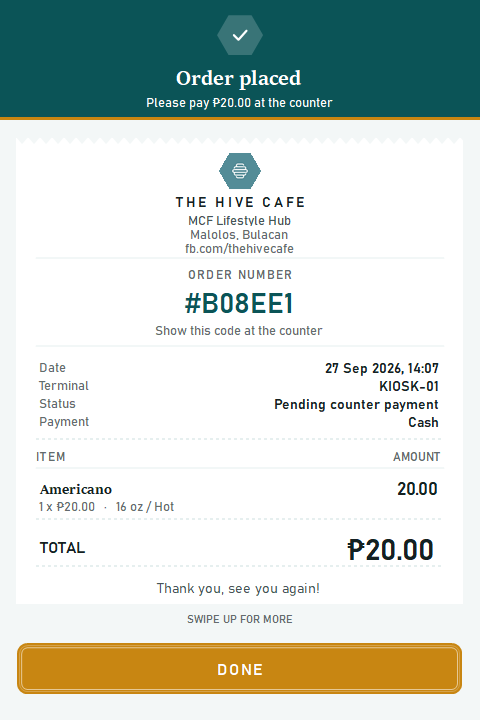
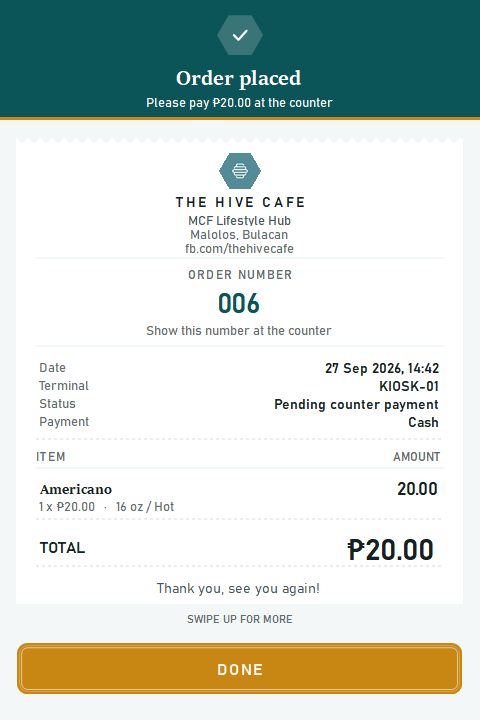
Number orders 001, 002... through the day
The receipt showed a hex code like #84C0E8 for the guest to read out at
the counter, where 0/O and 8/B sound alike. Orders now get a daily
number instead, shown as 042 on the receipt, the printed slip and staff
history, and the receipt says "Show this number at the counter".

The number is worked out from the day's saved orders rather than kept
in a separate counter, so it survives a restart and cannot drift from
the records; a damaged record from today still counts, so no number is
handed out twice. The full record id is unchanged, and orders saved
before this keep their old code.

Changed region(s): [[0.3125, 0.3972, 0.6875, 0.4889], [0.875, 0.4889, 0.9375, 0.5194]]

diff --git a/tests/SmokeTests.cs b/tests/SmokeTests.cs
@@ -131,8 +131,8 @@ class SmokeTests
 
             LocalStore.SetSoldOut("Americano", false);
             var saved = LocalStore.Submit("Cash");
-            Check(saved.DisplayNumber.Length == 7 && saved.Id.EndsWith(saved.DisplayNumber.Substring(1), StringComparison.OrdinalIgnoreCase),
-                "guest order code is short and maps to the saved record");
+            Check(saved.Number == 1 && saved.DisplayNumber == "001" && File.Exists(Path.Combine(LocalStore.Root, "Orders", saved.Id + ".xml")),
+                "the day's first order is number 001, saved under its full record id");
             OrderStorage.Orders[0].Quantity = 1;
             Check(saved.Total == 120 && saved.Lines[1].Sweetness == "50%", "saved snapshot retains sweetness independently of cart");
             int unreadable; var history = LocalStore.History(out unreadable);
@@ -140,6 +140,18 @@ class SmokeTests
             File.WriteAllText(Path.Combine(LocalStore.Root, "Orders", "broken.xml"), "broken");
             Check(LocalStore.History(out unreadable).Count == 1 && unreadable == 1, "damaged record does not hide valid history");
             var demo = LocalStore.Submit("Card"); Check(demo.Status == "Demo - no payment taken", "card demo never marked paid");
+            Check(demo.DisplayNumber == "002", "order numbers count up through the day");
+            string ordersDir = Path.Combine(LocalStore.Root, "Orders");
+            var yesterday = new SavedOrder { Id = DateTime.Now.AddDays(-1).ToString("yyyyMMdd") + "-235900-abc123", Number = 41,
+                Created = DateTime.Now.AddDays(-1), Method = "Cash", Status = "Pending counter payment", Lines = new System.Collections.Generic.List<Order>() };
+            LocalStore.Write(Path.Combine(ordersDir, yesterday.Id + ".xml"), yesterday);
+            File.WriteAllText(Path.Combine(ordersDir, DateTime.Now.ToString("yyyyMMdd") + "-000000-broken.xml"), "broken");
+            var third = LocalStore.Submit("Card");
+            Check(third.Number == 4, "yesterday's orders don't count, and a damaged record from today keeps its number (got " + third.Number + ")");
+            Check(LocalStore.History(out unreadable).Any(o => o.Id == third.Id && o.DisplayNumber == "004"),
+                "the number is saved with the order, so history reads it back after a restart");
+            Check(new SavedOrder { Id = "20250101-120000-84c0e8" }.DisplayNumber == "#84C0E8",
+                "orders saved before daily numbers keep their old code");
             string root = LocalStore.Root;
             string blocked = Path.Combine(root, "blocked"); File.WriteAllText(blocked, "file"); LocalStore.Root = blocked;
             Fails(() => LocalStore.Submit("Cash"), "storage failure reported");
@@ -194,7 +206,7 @@ class SmokeTests
                 Check(!cue.Visible, "scroll cue clears at the end of the receipt");
             }
             Shot((Form)receiptCtor.Invoke(new object[] { filipinoOrder }), "receipt-fil", args[0]);
-            Check(Directory.GetFiles(LocalStore.ReceiptFolder, "*.txt").Any(file => File.ReadAllText(file).Contains("ORDER BLG. " + filipinoOrder.DisplayNumber) && File.ReadAllText(file).Contains("Ipakita ang code sa counter")), "Filipino receipt copy shows the short code and counter instruction");
+            Check(Directory.GetFiles(LocalStore.ReceiptFolder, "*.txt").Any(file => File.ReadAllText(file).Contains("ORDER BLG. " + filipinoOrder.DisplayNumber) && File.ReadAllText(file).Contains("Ipakita ang numerong ito sa counter")), "Filipino receipt copy shows the order number and counter instruction");
 
             // the printed slip is 40 columns; Filipino customizations are longer
             // than the English ones and used to run past the edge

diff --git a/kiosk/OrderForms/LocalStore.cs b/kiosk/OrderForms/LocalStore.cs
@@ -1,4 +1,4 @@
-using System;
+using System;
 using System.Collections.Generic;
 using System.IO;
 using System.Linq;
@@ -14,10 +14,17 @@ namespace kiosk
         public string Status { get; set; }
         public List<Order> Lines { get; set; }
         public decimal Total { get { return Lines.Sum(o => o.Total); } }
+
+        // Counts up from 1 each day, so the cashier can call "zero four two"
+        // instead of spelling out a hex code where 0/O and 8/B sound alike.
+        // Orders saved before daily numbers existed read 0 and keep their code.
+        public int Number { get; set; }
+
         public string DisplayNumber
         {
             get
             {
+                if (Number > 0) return Number.ToString("000");
                 if (string.IsNullOrEmpty(Id)) return "—";
                 int separator = Id.LastIndexOf('-');
                 string code = separator >= 0 ? Id.Substring(separator + 1) : Id;
@@ -57,9 +64,11 @@ namespace kiosk
         public static SavedOrder Submit(string method)
         {
             OrderStorage.ValidateCart();
+            DateTime now = DateTime.Now;
             var order = new SavedOrder {
-                Id = DateTime.Now.ToString("yyyyMMdd-HHmmss") + "-" + Guid.NewGuid().ToString("N").Substring(0, 6),
-                Created = DateTime.Now, Method = method,
+                Id = now.ToString("yyyyMMdd-HHmmss") + "-" + Guid.NewGuid().ToString("N").Substring(0, 6),
+                Number = NextNumber(now),
+                Created = now, Method = method,
                 Status = method == "Cash" ? "Pending counter payment" : "Demo - no payment taken",
                 Lines = OrderStorage.Orders.Select(o => new Order { Product = o.Product, Size = o.Size,
                     Temperature = o.Temperature, Sweetness = o.Sweetness, Quantity = o.Quantity,
@@ -67,6 +76,24 @@ namespace kiosk
             };
             Write(Path.Combine(Root, "Orders", order.Id + ".xml"), order);
             return order;
+        }
+
+        // Worked out from the day's saved orders rather than kept in a separate
+        // counter, so it survives a restart and cannot drift from the records.
+        // Record ids start with the date, so only today's files are read. One
+        // that cannot be read still counts, so its number is never reused.
+        private static int NextNumber(DateTime now)
+        {
+            string folder = Path.Combine(Root, "Orders");
+            if (!Directory.Exists(folder)) return 1;
+            string[] today = Directory.GetFiles(folder, now.ToString("yyyyMMdd") + "-*.xml");
+            int highest = today.Length;
+            foreach (string file in today)
+            {
+                try { highest = Math.Max(highest, Read<SavedOrder>(file).Number); }
+                catch (Exception ex) when (ex is IOException || ex is InvalidOperationException || ex is UnauthorizedAccessException) { }
+            }
+            return highest + 1;
         }
 
         public static List<SavedOrder> History(out int unreadable)

diff --git a/kiosk/Payments/ReceiptForm.cs b/kiosk/Payments/ReceiptForm.cs
@@ -147,7 +147,7 @@ namespace kiosk.Payments
             r.AppendLine();
 
             center((GuestText.Filipino ? "ORDER BLG. " : "ORDER No. ") + _displayNumber);
-            center(_paymentMethod == "Cash" ? "Show this code at the counter" : "Keep this code for reference");
+            center(_paymentMethod == "Cash" ? "Show this number at the counter" : "Keep this number for reference");
             center(_paymentMethod == "Cash" ? "PENDING COUNTER PAYMENT" : "DEMO - NO PAYMENT TAKEN");
             rule();
             row("Date", _issued.ToString("dd MMM yyyy HH:mm", GuestText.DateCulture));
@@ -322,7 +322,7 @@ namespace kiosk.Payments
                                  new Rectangle(left, y, w, 18), Hive.Muted, 1.3f, true);
                 Hive.Text(g, _receipt.DisplayNumber, Hive.PriceBig,
                           new Rectangle(left, y + 17, w, 40), Hive.Teal, Hive.Centered);
-                Hive.Text(g, _receipt.PaymentMethod == "Cash" ? "Show this code at the counter" : "Keep this code for reference",
+                Hive.Text(g, _receipt.PaymentMethod == "Cash" ? "Show this number at the counter" : "Keep this number for reference",
                           Hive.Caption, new Rectangle(left, y + 55, w, 20), Hive.Muted, Hive.Centered);
             }
             y += 17 + 40 + 20 + 4;

diff --git a/kiosk/UI/GuestText.cs b/kiosk/UI/GuestText.cs
@@ -122,8 +122,8 @@ namespace kiosk.UI
             { "Thank you, see you again!", "Salamat, balik po kayo!" },
             { "THIS IS NOT AN OFFICIAL RECEIPT", "HINDI ITO OPISYAL NA RESIBO" },
             { "ORDER NUMBER", "NUMERO NG ORDER" },
-            { "Show this code at the counter", "Ipakita ang code sa counter" },
-            { "Keep this code for reference", "Itabi ang code bilang sanggunian" },
+            { "Show this number at the counter", "Ipakita ang numerong ito sa counter" },
+            { "Keep this number for reference", "Itabi ang numerong ito bilang sanggunian" },
             { "SWIPE UP FOR MORE", "I-SWIPE PATAAS PARA SA IBA PA" },
             { "Date", "Petsa" }, { "Terminal", "Terminal" }, { "Payment", "Bayad" },
             { "Status", "Status" }, { "ITEM", "ITEM" }, { "AMOUNT", "HALAGA" },

diff --git a/README.md b/README.md
@@ -36,7 +36,7 @@ After building, you can also open `kiosk/bin/Release/kiosk.exe` directly without
 
 **There is no connected payment processor.**
 
-- **Cash:** saves an order as **Pending counter payment**. The receipt shows a short guest code such as `#637E93` with **Show this code at the counter**; the guest reads that code to the cashier. Staff can record cash received in the staff screen.
+- **Cash:** saves an order as **Pending counter payment**. The receipt shows a daily order number such as **042** with **Show this number at the counter**; the guest reads that number to the cashier. Numbers restart at 001 each day and are worked out from that day's saved orders, so they survive a restart. Orders saved before v2.4 keep their old six-character code. Staff can record cash received in the staff screen.
 - **Card and e-wallet:** create explicitly labeled demonstration orders. They do not charge money, collect card details, or display a live payment QR.
 - Submitted orders are saved before the cart clears. A storage failure keeps the cart available to retry. Back/Escape after submission returns to welcome, so the old checkout cannot be resubmitted.
 - The kiosk saves a text receipt copy; it does not automatically send it to a physical printer. Receipts are not official tax receipts.
